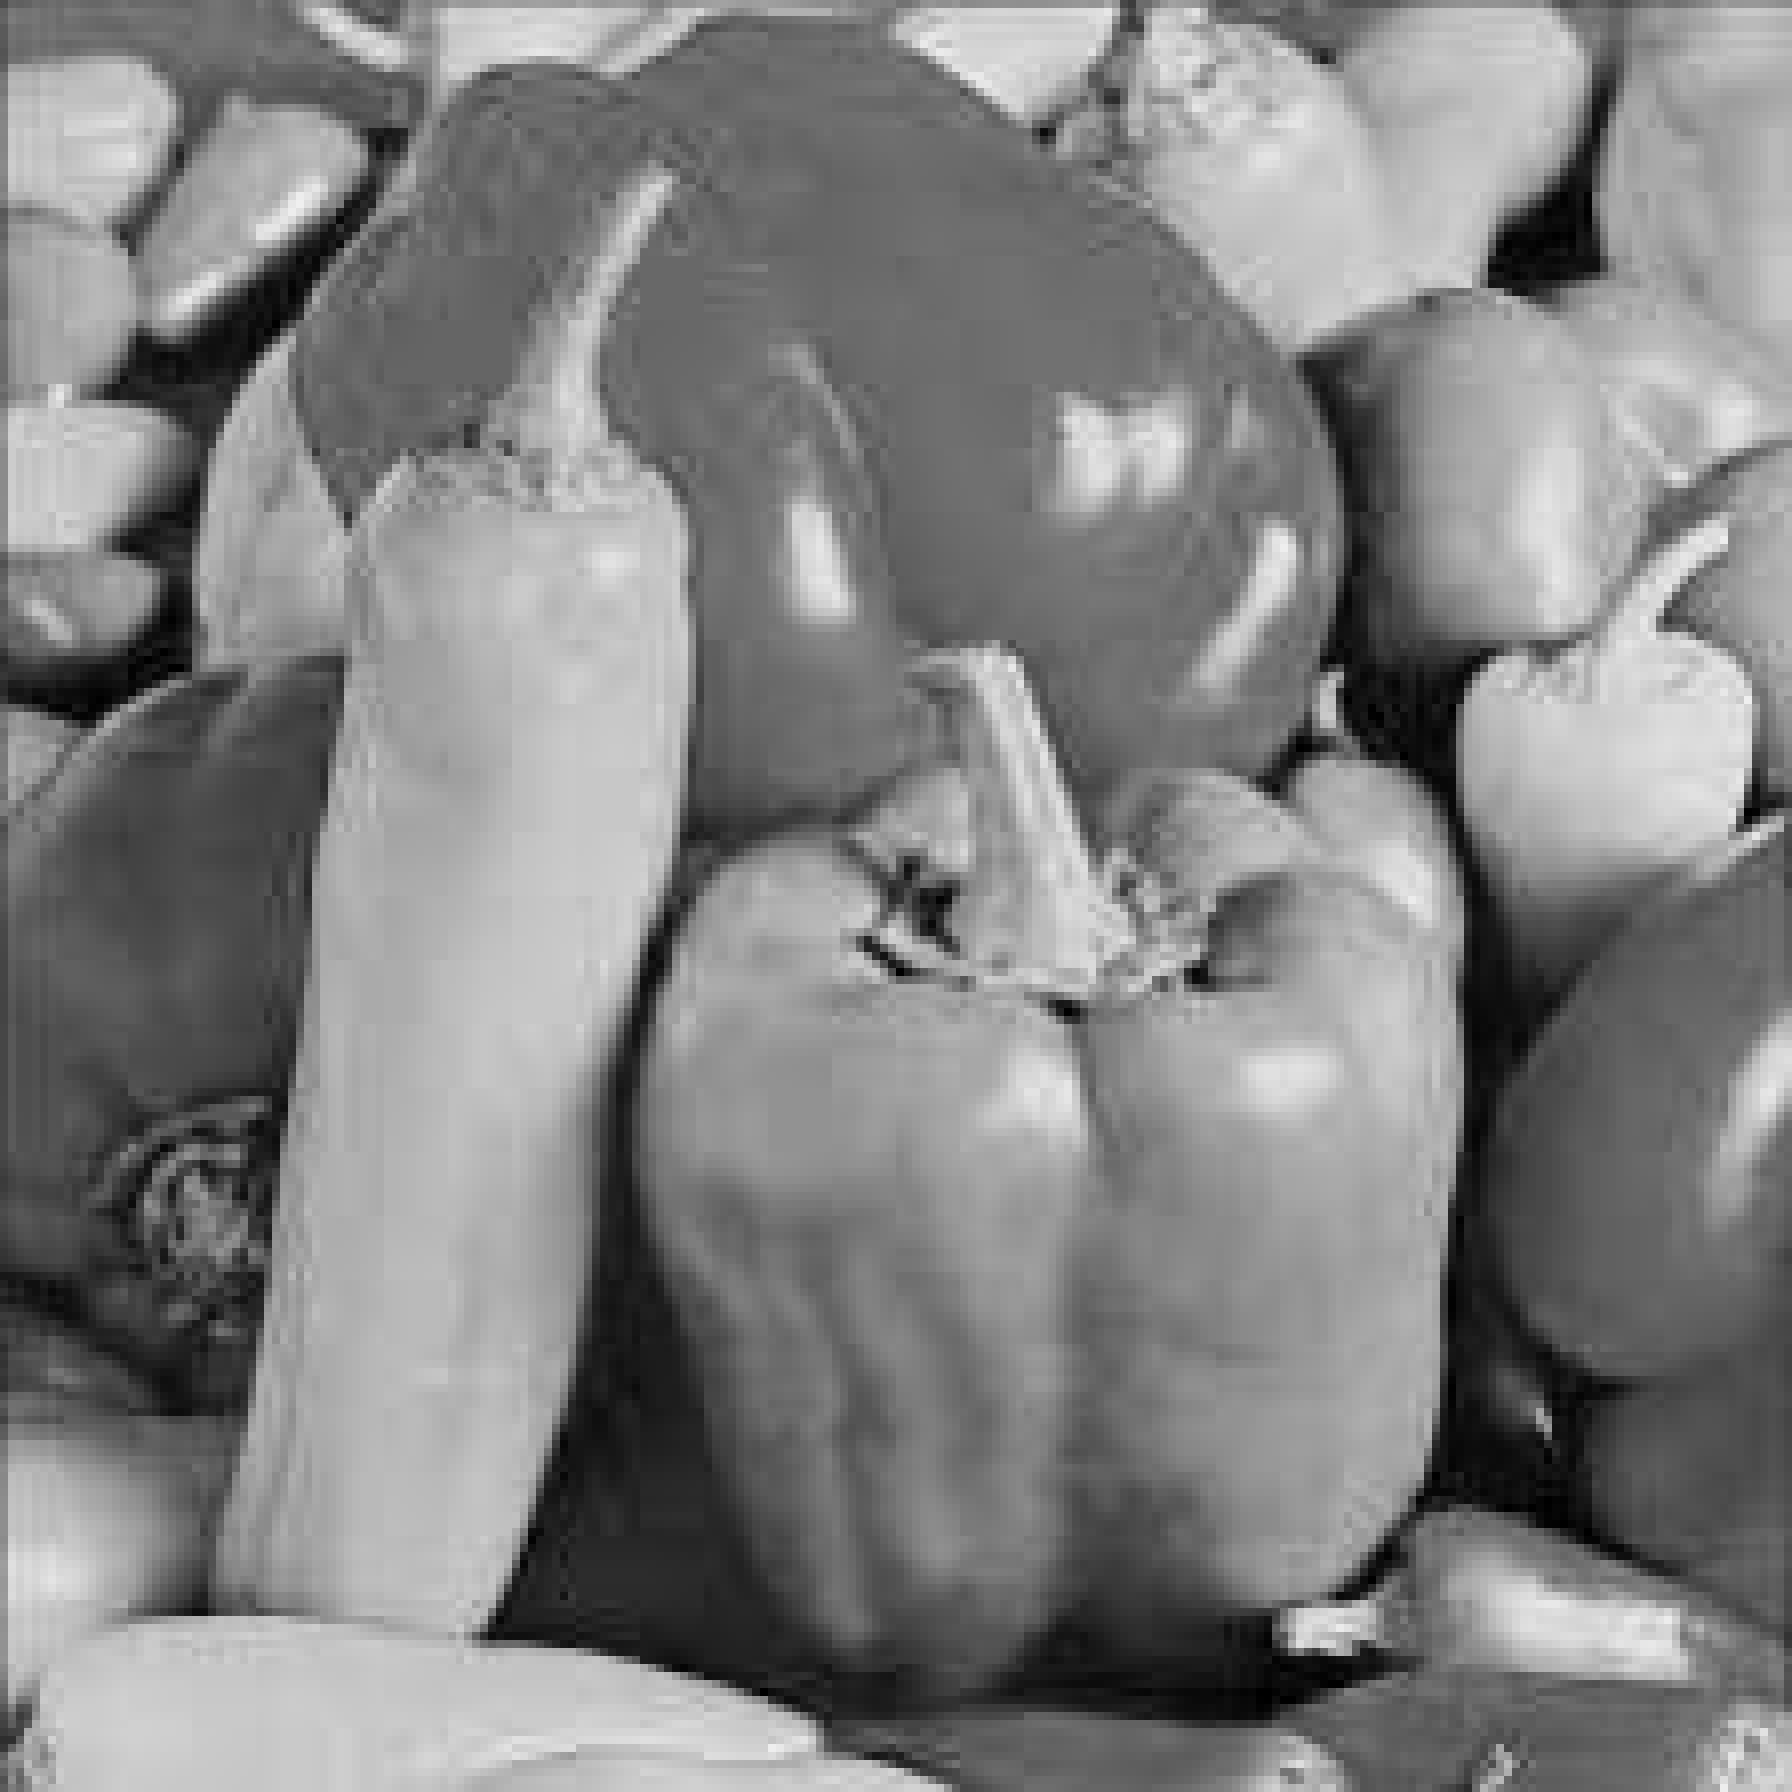
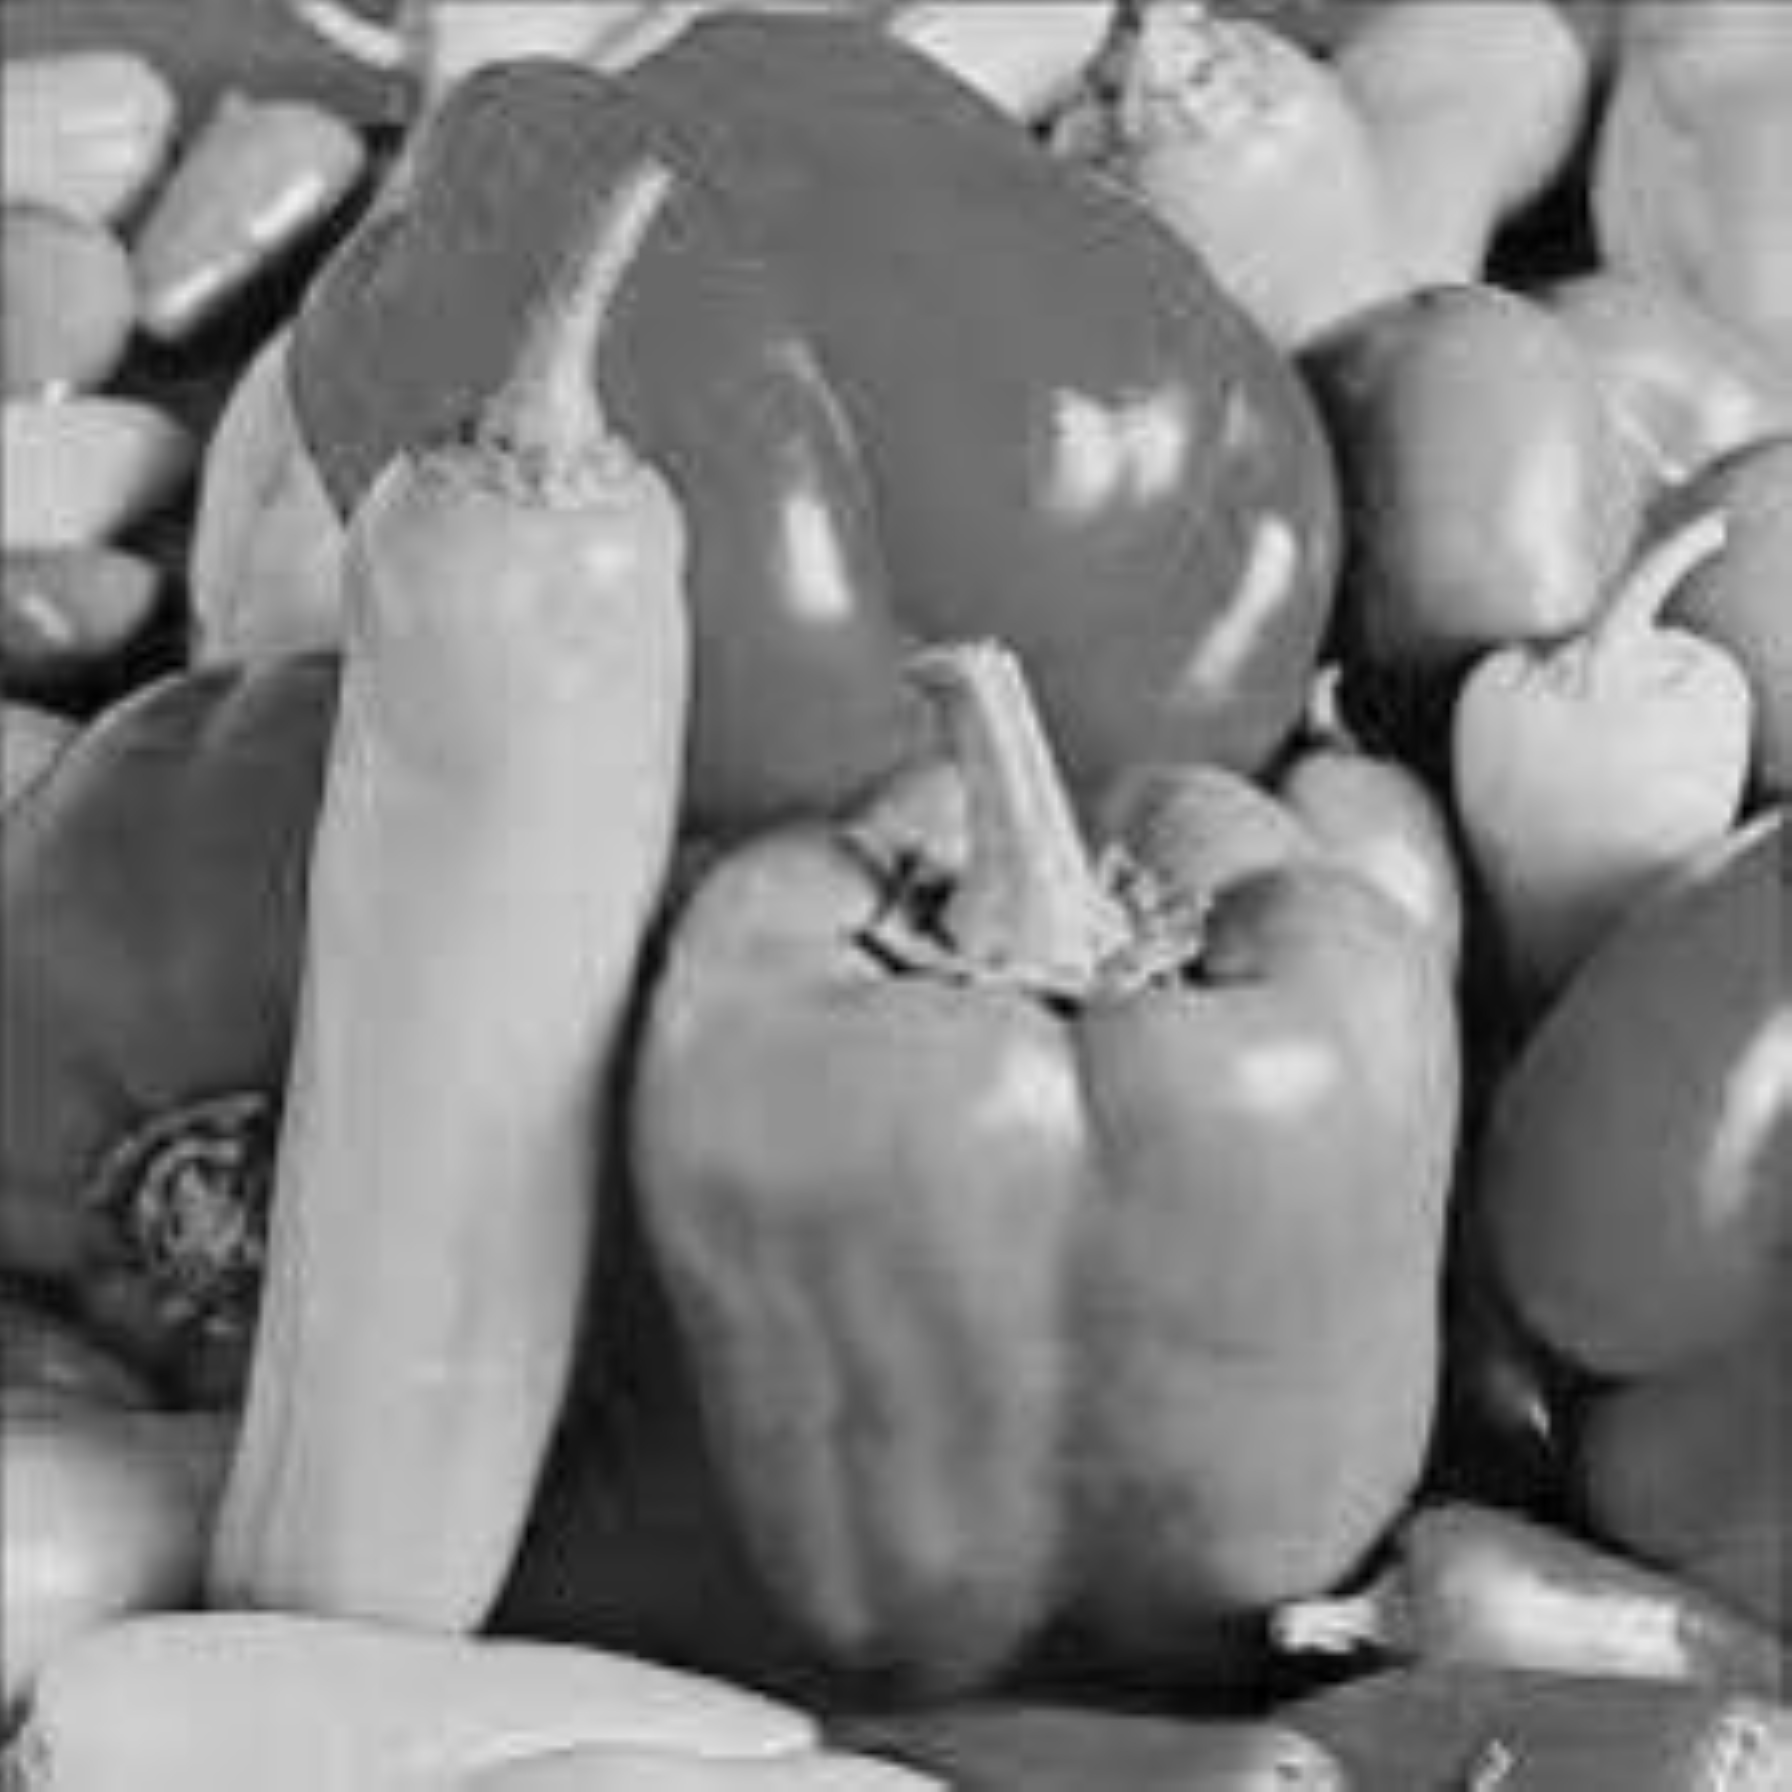
changed the interpulation to bilinear instead of nearest neighbour

diff --git a/1/Ex1.py b/1/Ex1.py
@@ -7,14 +7,79 @@ def interpulation(img):  # 1.a
     """ This function does super resolution by bilinear interpulation
         img: 2D numpy array of the original image (n*m)
         return: 2D numpy array of the new image (2n*2m)"""
-    n, m = img.shape
-    new_img = np.zeros((2 * n, 2 * m))
-    for i in range(n):
-        for j in range(m):
-            new_img[2 * i, 2 * j] = img[i, j]
-            new_img[2 * i + 1, 2 * j] = img[i, j]
-            new_img[2 * i, 2 * j + 1] = img[i, j]
-            new_img[2 * i + 1, 2 * j + 1] = img[i, j]
+    h, w = img.shape
+    new_h, new_w = h * 2, w * 2
+    new_img = np.zeros((new_h, new_w))
+
+    # Iterate over every pixel in the new image
+    for i in range(new_h):
+        for j in range(new_w):
+            # Find the coordinates in the original image
+            x = i / 2
+            y = j / 2
+
+            # Get the coordinates of the surrounding pixels
+            x0 = int(np.floor(x))
+            y0 = int(np.floor(y))
+            x1 = min(x0 + 1, h - 1)
+            y1 = min(y0 + 1, w - 1)
+
+            # Calculate the differences
+            dx0 = x - x0
+            dx1 = x1 - x
+            dy0 = y - y0
+            dy1 = y1 - y
+
+            # Get the pixel values
+            top_left = img[x0, y0]
+            top_right = img[x0, y1]
+            bottom_left = img[x1, y0]
+            bottom_right = img[x1, y1]
+
+            if x0 == x1 and y0 == y1:
+                new_img[i, j] = top_left  # no need to interpolate - take original pixel
+                continue
+            if x0 == x1:
+                new_img[i, j] = top_left * dy1 + top_right * dy0  # interpolate only in the y direction
+                continue
+            if y0 == y1:
+                new_img[i, j] = top_left * dx1 + bottom_left * dx0  # interpolate only in the x direction
+                continue
+            top = top_left * dy1 + top_right * dy0  # interpolate in the y direction
+            bottom = bottom_left * dy1 + bottom_right * dy0
+            new_img[i, j] = top * dx1 + bottom * dx0  # interpolate in the x direction
+    return new_img
+
+
+def interpolate_by_2(img):
+    # interpolate by 2
+    h, w = img.shape
+    new_img = np.zeros((h * 2, w * 2))
+    h_new, w_new = new_img.shape
+    for i in range(h_new):
+        for j in range(w_new):
+            x = i / 2
+            y = j / 2
+            x_floor = int(np.floor(x))
+            y_floor = int(np.floor(y))
+            x_ceil = int(min(np.ceil(x), h - 1))
+            y_ceil = int(min(np.ceil(y), w - 1))
+
+            if x_floor == x_ceil and y_floor == y_ceil:
+                new_img[i, j] = img[x_floor, y_floor]  # no need to interpolate
+            elif x_floor == x_ceil:
+                # interpolate only in the y direction
+                new_img[i, j] = (y_ceil - y) * img[x_floor, y_floor] + (y - y_floor) * img[x_floor, y_ceil]
+                # it's in general writing, but in this case it is the same as:
+                # new_img[i, j] = 0.5 * img[x_floor, y_floor] + 0.5 * img[x_floor, y_ceil]
+            elif y_floor == y_ceil:
+                # interpolate only in the x direction
+                new_img[i, j] = (x_ceil - x) * img[x_floor, y_floor] + (x - x_floor) * img[x_ceil, y_floor]
+            else:
+                # interpolate in both directions
+                f1 = (x_ceil - x) * img[x_floor, y_floor] + (x - x_floor) * img[x_ceil, y_floor]
+                f2 = (x_ceil - x) * img[x_floor, y_ceil] + (x - x_floor) * img[x_ceil, y_ceil]
+                new_img[i, j] = (y_ceil - y) * f1 + (y - y_floor) * f2
     return new_img
 
 
@@ -80,8 +145,8 @@ if __name__ == '__main__':  # Part A
     print('Saving interpolated peppers image (by 2)')
     cv2.imwrite('./Peppers_interpolated_by_2.jpg', peppers_interp_by_2)
     # 1.c
-    print('Interpolating peppers image by 8 - 3 times interpulation by 2')
-    peppers_interp_by_8 = interpulation(interpulation(interpulation(peppers)))
+    print('Interpolating peppers image by 8 ')  # 2 times interpolation by 2(to already interpolated by 2 image)
+    peppers_interp_by_8 = interpulation(interpulation(peppers_interp_by_2))
     print('Saving interpolated peppers image (by 8)')
     cv2.imwrite('./Peppers_interpolated_by_8.jpg', peppers_interp_by_8)
 
